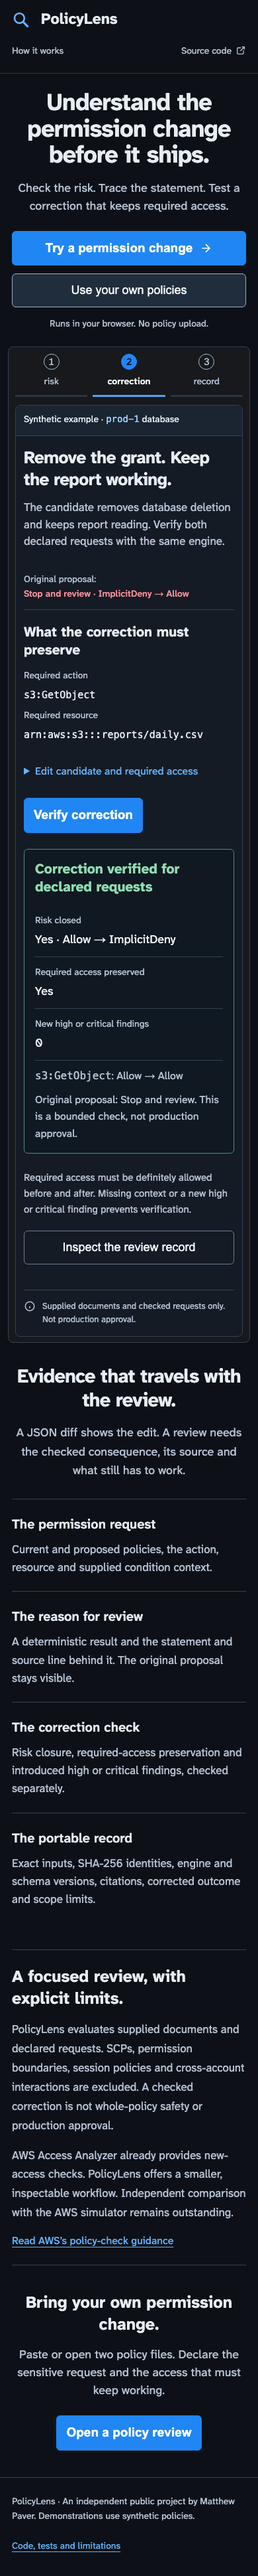
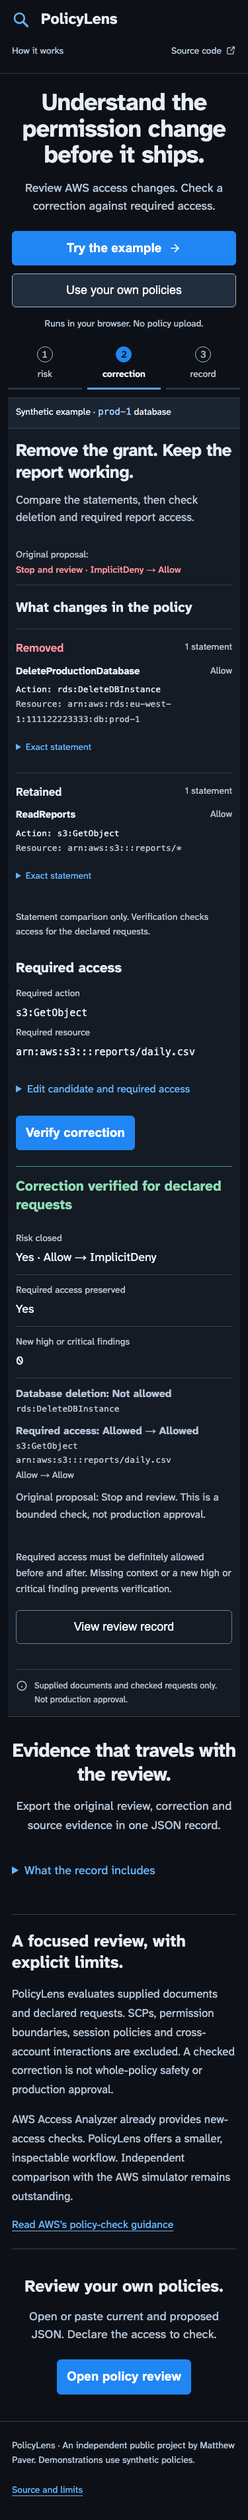
docs: show inspectable PolicyLens correction evidence (#36)

diff --git a/store/work/policylens/index.html b/store/work/policylens/index.html
@@ -85,6 +85,10 @@
 <li>Verify a corrected candidate. It must close the declared risk, preserve definite required access and avoid introducing a high or critical finding.</li>
 <li>Export JSON with original and corrected evidence, identities and explicit limits. The published demo runs its deterministic engine in your browser without uploading policies.</li>
 </ol>
+<h2>See what the correction changes</h2>
+<p>The updated correction view shows the actual removed, retained and added statements. In the synthetic example, it removes DeleteProductionDatabase and retains ReadReports. Exact statement JSON remains inspectable. The engine separately confirms that deletion is blocked and the declared report request stays allowed.</p>
+<p>A retained statement is not a promise of retained effective access. A candidate can add a deny while retaining its original allow; the document comparison and access verification show those facts separately.</p>
+<p><a href="../../assets/flagships/policylens-correction-evidence.png">Inspect the desktop correction evidence</a> · <a href="../../assets/flagships/policylens-correction-phone.png">Inspect the phone correction evidence</a></p>
 <h2>Evidence and practical value</h2>
 <p><a href="../../assets/flagships/policylens-example-review.json" download>Inspect the exported synthetic review JSON</a> · <a href="../../assets/flagships/policylens-correction-phone.png">See the verified correction on a phone</a></p>
 <p>The example cites S2 at after.json:10 for the added rds:DeleteDBInstance grant. The corrected candidate removes that access while retaining s3:GetObject on the report. Validation retains the existing engine/module tests, authored 55-case benchmark and six captured grounding expectations. Browser journeys cover the product entry, real-engine correction and export, own files, invalid inputs, missing required access, stale results, late responses, navigation, source copying, phones and reduced motion. These are authored checks, not independent AWS parity evidence or live-model evaluation.</p>
